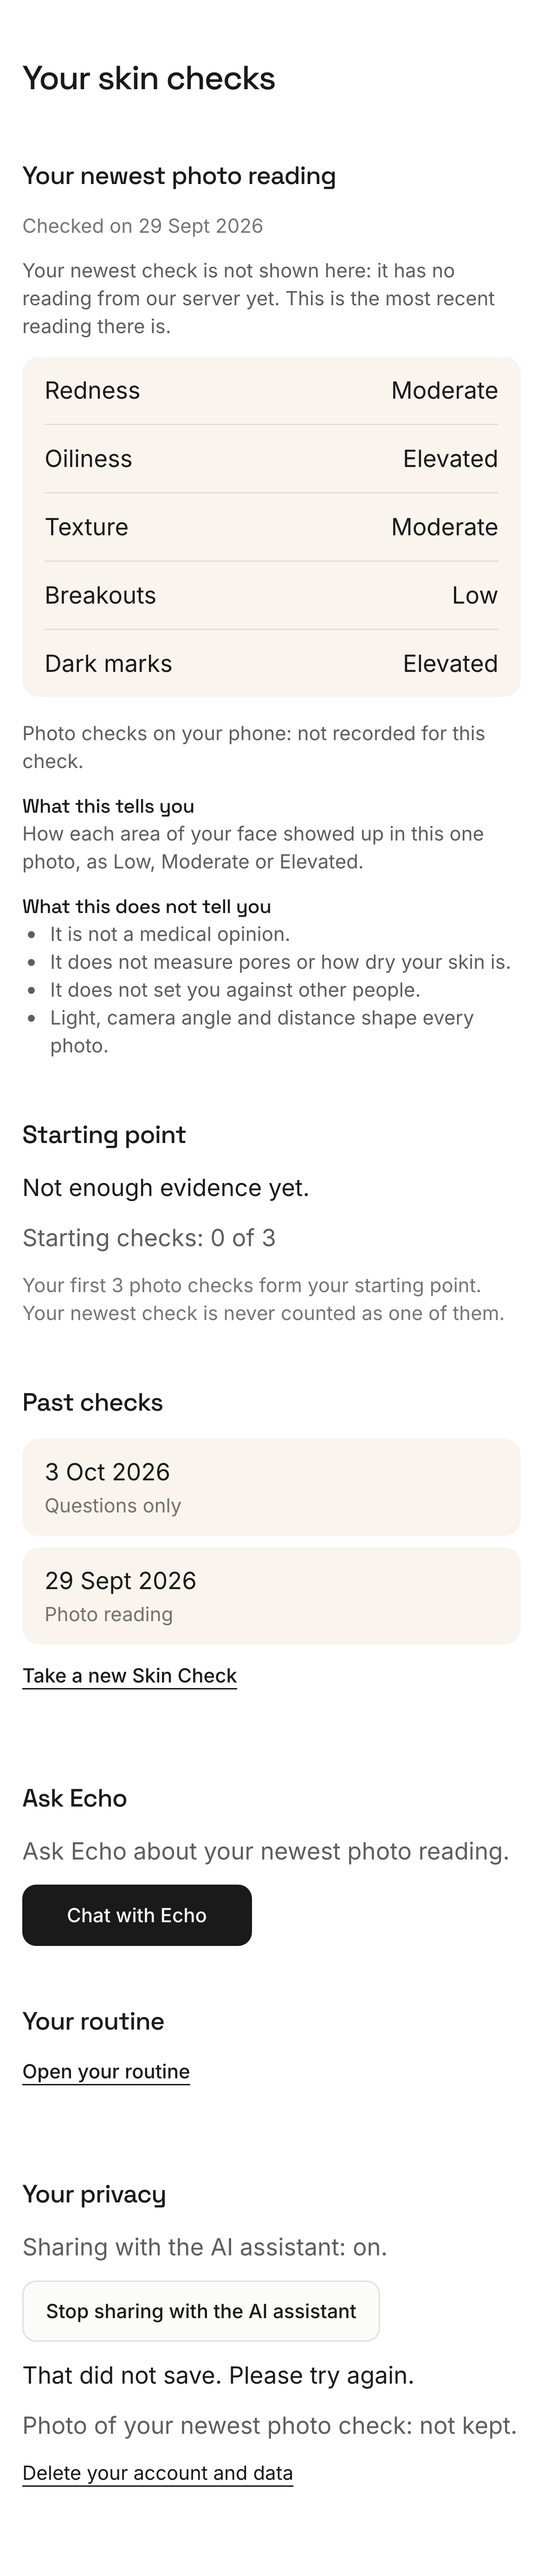
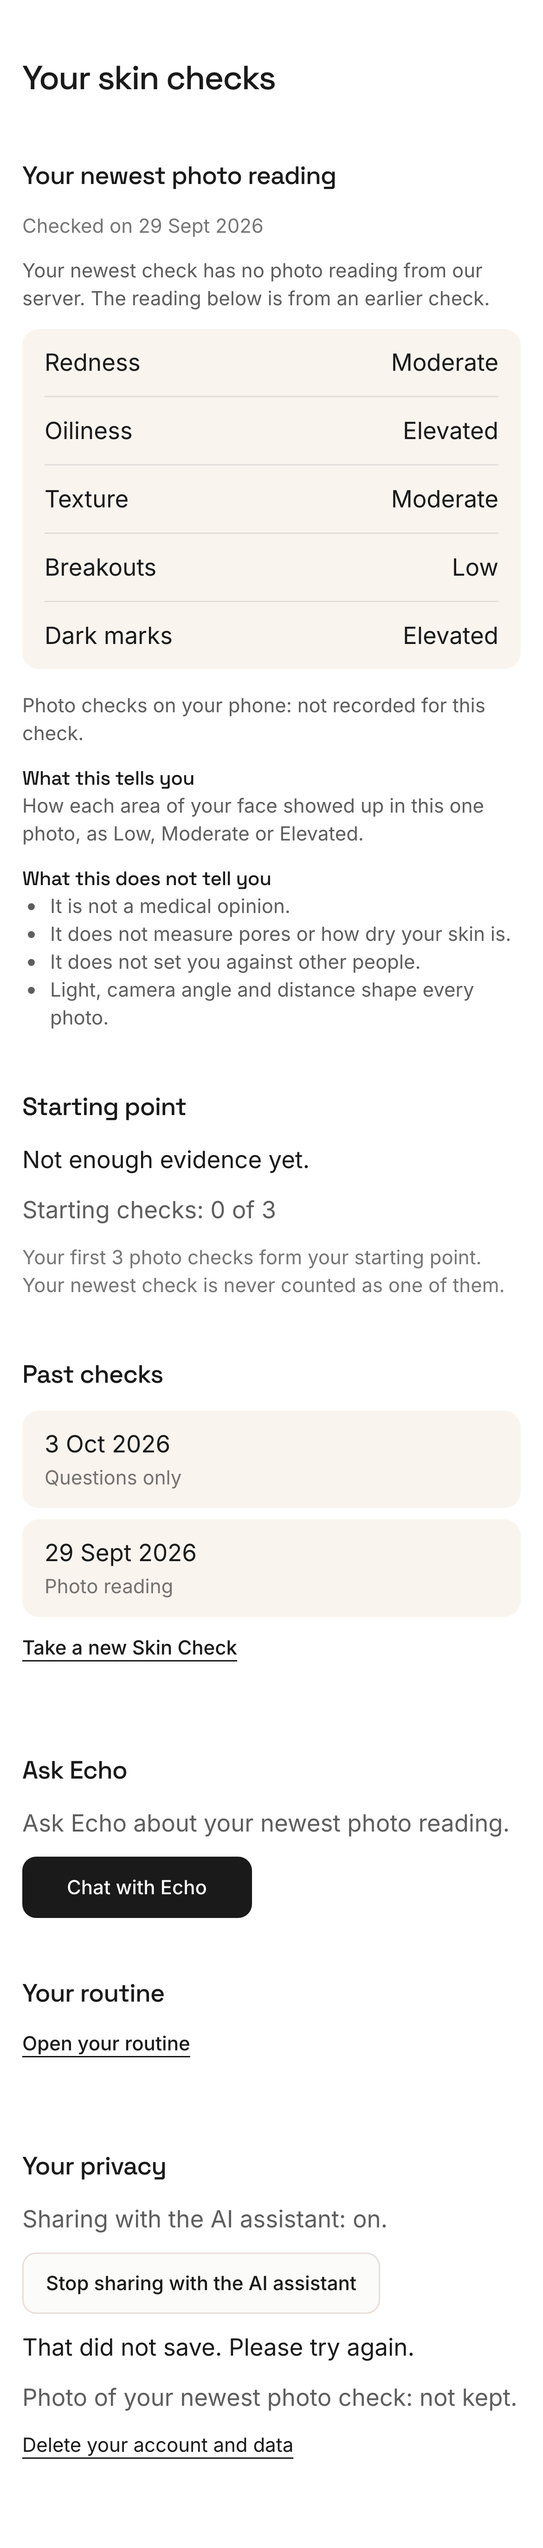
fix(dashboard): confirmation-pass follow-ups
- 'Newer check' line no longer says the reading is on its way: true for
  questions-only and failed checks too.
- pickBaseline gets one state per check, so an early retake can never keep
  the count below 3 (5-check unit test).
- Unreadable reading: no app-only note and no 'what this tells you' next
  to readings that are not on screen (browser assertion).
- Report names every seed user with sharing on.

test:local exit 0 (unit 1232/47, stack 47/47); build exit 0; browser 25/25
on a fresh stack (K-1 expected failure).

diff --git a/components/dashboard/state.ts b/components/dashboard/state.ts
@@ -186,16 +186,13 @@ export function deriveDashboard(uid: string, checks: readonly Doc[], analyses: r
       ? { kind: "reading", view: legacyView(newestLegacy, legacyResultOf(newestLegacy)!) }
       : { kind: "none" };
 
-  // Same picker and rule as the engine, over every valid record as the chat
-  // path passes them; the newest is never a candidate. The page counts CHECKS,
-  // not records: a retake or recovery record never adds a starting check, and
-  // an earlier record of the newest check is not one (design gap G-1).
-  const { latest, candidates, engineBoundary } = pickBaseline(measured.map((m) => m.state));
-  const scanOf = new Map(measured.map((m) => [m.state, m.scanId] as const));
-  const startingScans = new Set(candidates.map((c) => scanOf.get(c)!));
-  if (latest) startingScans.delete(scanOf.get(latest)!);
+  // Same picker and rule as the engine, over ONE state per check (the record
+  // picked above), so the page counts checks: a retake or recovery record never
+  // adds or takes a starting-check place. The newest check is never a
+  // candidate. The engine is passed every record (design gap G-1).
+  const { candidates, engineBoundary } = pickBaseline(Array.from(byScan.values()).map((m) => m.state));
   const needed = BASELINE_RULE.scans;
-  const count = Math.min(startingScans.size, needed);
+  const count = Math.min(candidates.length, needed);
   const trend: Trend = {
     kind: measured.length === 0 ? "empty" : count < needed ? "building" : "set",
     count,

diff --git a/tests/dashboard-state.test.ts b/tests/dashboard-state.test.ts
@@ -98,6 +98,12 @@ describe("dashboard view model", () => {
     expect(deriveDashboard(UID, [check("a", 1), check("c", 3)], [analysis("a", 1), retake, analysis("c", 3)]).trend.count).toBe(1);
   });
 
+  it("a retake on an early check never keeps the count below the number needed", () => {
+    const ids = ["a", "b", "c", "d", "e"];
+    const records = [...ids.map((s, i) => analysis(s, i + 1)), analysis("a", 1, {}, {}, "b")];
+    expect(deriveDashboard(UID, ids.map((s, i) => check(s, i + 1)), records).trend).toMatchObject({ kind: "set", count: 3 });
+  });
+
   it("an invalid primary record gives the scan no reading, as Echo then has none (no fallback to a recovery record)", () => {
     const primary = analysis("s", 1);
     primary.data.schemaVersion = 2;

diff --git a/components/dashboard/copy.ts b/components/dashboard/copy.ts
@@ -17,7 +17,7 @@ export const DASHBOARD_COPY = {
     title: "Your newest photo reading",
     none: "None of your checks has a photo reading yet.",
     checkedOn: (date: string) => `Checked on ${date}`,
-    newerNotShown: "Your newest check is not shown here: it has no reading from our server yet. This is the most recent reading there is.",
+    newerNotShown: "Your newest check has no photo reading from our server. The reading below is from an earlier check.",
     unreadable: "The readings of this check could not be shown.",
     hardToRead: (areas: string) => `Hard to read in this photo: ${areas}. Those readings are uncertain.`,
     knownTitle: "What this tells you",

diff --git a/tests/browser/dashboard.spec.ts b/tests/browser/dashboard.spec.ts
@@ -137,6 +137,9 @@ test("privacy: sharing on, with the stop button", async ({ page }) => {
 test("unreadable: stored scores that do not parse", async ({ page }) => {
   await dashboardAs(page, U.unreadable!.phoneNumber);
   await expect(page.getByText(C.current.unreadable)).toBeVisible();
+  // Nothing that speaks of readings that are not on screen.
+  await expect(page.getByText(C.legacyNote)).toHaveCount(0);
+  await expect(page.getByRole("heading", { name: C.current.knownTitle })).toHaveCount(0);
   await shot(page, "unreadable");
 });
 

diff --git a/components/dashboard/CheckReadings.tsx b/components/dashboard/CheckReadings.tsx
@@ -23,7 +23,7 @@ export function CheckReadings({ view }: { view: CheckView }) {
       )}
       {view.hardToRead.length > 0 && <p className="text-sm text-text/70">{C.current.hardToRead(view.hardToRead.join(", "))}</p>}
       {view.photoCheck && <p className="text-sm text-text/70">{C.photoCheck[view.photoCheck]}</p>}
-      {view.source === "legacy" && <p className="text-sm text-text/70">{C.legacyNote}</p>}
+      {view.source === "legacy" && view.bands && <p className="text-sm text-text/70">{C.legacyNote}</p>}
     </div>
   );
 }

diff --git a/components/dashboard/DashboardPage.tsx b/components/dashboard/DashboardPage.tsx
@@ -153,7 +153,8 @@ function CurrentSection({ dashboard }: { dashboard: Dashboard }) {
           <p className="text-sm text-text/60">{C.current.checkedOn(formatDate(current.view.date))}</p>
           {dashboard.newerCheckNotShown && <p className="text-sm text-text/70">{C.current.newerNotShown}</p>}
           <CheckReadings view={current.view} />
-          <KnownAndNotKnown />
+          {/* Only next to readings that are on screen. */}
+          {current.view.bands && <KnownAndNotKnown />}
         </>
       )}
     </section>

diff --git a/docs/lanes/dashboard-report.md b/docs/lanes/dashboard-report.md
@@ -29,15 +29,15 @@ Skipped, each needing an owner decision (§4):
 
 ## 2. Test results
 
-At aebf1eb:
-- `npm run test:local`: exit 0. Unit tests 1231 passed, 47 skipped (86 files); stack 10 files, 47/47. The baseline before the lane was 1199 passed, 47 skipped; stack 47/47.
+At the final commit (§7, last row):
+- `npm run test:local`: exit 0. Unit tests 1232 passed, 47 skipped (86 files); stack 10 files, 47/47. The baseline before the lane was 1199 passed, 47 skipped; stack 47/47.
 - `npx tsc --noEmit`: 0 errors. `npm run lint`: clean. `next build`: exit 0 (`/dashboard` 2.66 kB).
-- The lane's unit tests are `tests/dashboard-state.test.ts` (every state in design §3) and `tests/dashboard-copy.test.ts` (D-12 wording, positive controls, no score, band colour or arrow, no import of the rules, context, gemini or engine code). Together: 32/32.
+- The lane's unit tests are `tests/dashboard-state.test.ts` (every state in design §3) and `tests/dashboard-copy.test.ts` (D-12 wording, positive controls, no score, band colour or arrow, no import of the rules, context, gemini or engine code). Together: 33/33.
 - **Browser tests:** `npx playwright test` against a fresh `npm run dev:local`, Chromium, 390×844, mobile user agent, one worker.
   - Result: **25/25 passed.** One of these is K-1, a known defect pinned with `test.fail()`, so it passes while it still fails.
   - Run command: `GEMINI_DEV_API_KEY=placeholder-not-a-key npm run dev:local`, then `npx playwright test`.
   - Why the placeholder key: the chat route checks for a Gemini key before it checks consent. With no key, Echo answers "isn't set up" and never reaches its consent prompt.
-  - It cannot reach Google in these tests. No test grants consent: the Echo user was never asked, and the withdraw user is checked as "off" before the message is sent. The route refuses without consent before any Gemini code runs.
+  - It cannot reach Google in these tests. No test grants consent and the route refuses without consent before any Gemini code runs. The seed users with sharing on are `withdraw` (checked as "off" before its Echo message is sent) and `newer` (never sends an Echo message; its consent requests are answered by `page.route`). The Echo user was never asked.
   - The value lives only in the shell, not in any file.
   - The data-changing tests (scan, withdraw, delete, routine) need a fresh stack for each run.
 - **Screenshots:** `docs/lanes/dashboard-*.png`.
@@ -84,7 +84,7 @@ At aebf1eb:
 - Dates in `en-IN`.
 - Browser tests written.
 
-**Fresh review of code and screenshots: FAIL. No screen puts two checks' readings side by side, and none shows a score, colour, arrow or chart.** Its findings and the response:
+**Fresh review of code and screenshots: FAIL. No screen puts two checks' readings side by side, and none shows a score, colour, arrow or chart.** Its findings and the response (fixed in aebf1eb; a confirmation pass then found four follow-ups, fixed in the next commit and listed after this list):
 1. The report was interim. This report is final.
 2. The reviewer could not check frozen files without a shell. Checked with `git diff --name-only`: none touched.
 3. **An older reading could sit under "Your newest photo reading" right after a new check.** Now a plain line is shown whenever a newer check has no server reading. Unit and browser tested.
@@ -97,6 +97,12 @@ At aebf1eb:
 10. Some states had no screenshot. Added for unreadable, newer check not shown, and privacy saving, failed and out of date. Two privacy states have none; the reason is in the design §6.
 11. No test pinned the retake count. Added.
 12. /routine is wider than a 390 px phone (the "Swap for" selects spill out). Not lane code: row R-6.
+
+**Confirmation pass: FAIL, four follow-ups, all fixed:**
+1. The "newer check" line said "no reading … yet", which is false for a questions-only or failed check. It now reads "Your newest check has no photo reading from our server. The reading below is from an earlier check."
+2. Counting records and then removing duplicates by check could leave the count at "2 of 3" for good after an early retake. `pickBaseline` now gets one state per check, with a 5-check unit test.
+3. The unreadable state showed the app-only note and "what this tells you" next to no readings. Both now show only when readings do, with a browser assertion.
+4. This report's Gemini statement missed the `newer` seed user. Now named.
 
 ## 4. New owner decisions
 
@@ -123,7 +129,7 @@ At aebf1eb:
 
 | Row | Area | What | Evidence or next action |
 |---|---|---|---|
-| G01 | Dashboard | Move to DONE / CHECKED LOCAL, with the evidence in §2 | aebf1eb; test:local exit 0; browser 25/25 |
+| G01 | Dashboard | Move to DONE / CHECKED LOCAL, with the evidence in §2 | final commit (§7); test:local exit 0; browser 25/25 |
 | H14 | Privacy | Move to DONE / CHECKED LOCAL: withdraw control on /dashboard and /account | ConsentSection; withdraw browser test; 409 state |
 | E06 | Routine | The browser click-through is done: add, used, skipped, other product, reload | flows.spec.ts routine test |
 | R-1 (K-1) | Echo / flow | Echo's back link after a dashboard hand-off reopens an old results screen | §5.2; pinned by `test.fail()` |
@@ -146,4 +152,5 @@ At aebf1eb:
 | 787a9c4 | fix: show a reading that landed before the questionnaire was saved |
 | 1dac63c | test: flow browser tests 2–10, warm-up, returning-user seed |
 | aebf1eb | fix: review fixes (newer check named, checks not records, Echo record order, app-only copy); tests and screenshots |
-| (this commit) | docs: final report |
+| c555e2e | docs: final report |
+| (this commit) | fix: confirmation-pass follow-ups (newer-check copy, one state per check for the count, unreadable state); tests, screenshots, design and report updated |

diff --git a/docs/lanes/dashboard-design.md b/docs/lanes/dashboard-design.md
@@ -72,7 +72,7 @@ the error-state browser test). Dates are formatted in `en-IN`.
 | One record per check | `scanAnalyses.scanId` | Picked exactly as Echo picks it (lib/echo-trusted-context.ts): over ALL records for the scan, the primary record (no `persistAttempt`) first, then the newest `createdAt`; validity is checked on the record picked. If it is not valid, the scan has no reading here (Echo then has nothing to load either); no fallback to another record. So the bands shown and the scan Echo talks about are the same record |
 | App-only reading ("legacy record") | `skinChecks.result` with no measured record for that scanId | Old client-written checks, and current checks whose server record is missing (failed persist, H13 restored draft). Labelled, shown as saved, never a starting check (D-23) |
 | Photo-check result | `scanAnalyses.captureQuality.verdict` | Client-asserted (D-26): every line says "Photo checks on your phone", and it is used for nothing else |
-| Starting-check count | distinct checks (scanIds) among `pickBaseline(states).candidates`, minus the newest record's check, capped at `BASELINE_RULE.scans` (lib/longitudinal/baseline.ts, settings.ts) | `states` = every measured record, as the chat path passes them to the engine. The page counts checks, not records, so a retake or recovery record never moves the count (the copy says "photo checks"). The engine itself may not be imported outside the chat path (tests/longitudinal-guard). See gap G-1 |
+| Starting-check count | `pickBaseline(states).candidates.length`, capped at `BASELINE_RULE.scans` (lib/longitudinal/baseline.ts, settings.ts) | `states` = one state per check: the record picked for it above. The page counts checks, not records, so a retake or recovery record never takes or adds a starting-check place (the copy says "photo checks"); the engine is passed every record. The engine itself may not be imported outside the chat path (tests/longitudinal-guard). See gap G-1 |
 | AI-share status | `users/{uid}/consentLedger`, purpose `ai_share`, read on its own by `ConsentSection` | Newest entry at `AI_SHARE_CONSENT_VERSION` wins (the server's `latestGrant` rule); a pending `recordedAt` counts as newest. None → "not asked yet". A failed ledger read shows the privacy error only; the rest of the page still loads |
 | Withdraw | `POST /api/account/consent` `{ purpose: "ai_share", granted: false, version }` | Existing route (H03c). 2xx → re-read the ledger; 409 `VERSION_STALE` → "reload" message; anything else → "try again" |
 | Echo hand-off | `setSession` of the existing session provider: `scanId`, `answers`, `result` (the chosen record), `composite` (`summarizeConcerns(scores, bandScores(scores).bands)`, as the results screen builds it), `captureMethod`, and an empty Blob for the required `photo` (marked `ponytail:`) | Echo reads only `scanId` and `region_scores`; the chat server loads the facts from `scanId` |
@@ -123,9 +123,9 @@ Section 1, current state ("Your newest photo reading"):
 | State | When | Shows |
 |---|---|---|
 | reading | a measured record exists | "Checked on {date}", the bands, hard-to-read areas, the photo-check line, known / not known |
-| newer check not shown | a check is newer than the reading shown (server reading not in yet, failed save, app-only, or questions only) | adds "Your newest check is not shown here: it has no reading from our server yet. This is the most recent reading there is." so an older reading is never taken for the check just made |
+| newer check not shown | a check is newer than the reading shown (server reading not in yet, failed save, app-only, or questions only) | adds "Your newest check has no photo reading from our server. The reading below is from an earlier check." so an older reading is never taken for the check just made |
 | app-only reading | no measured record, a check has an app-only result | the same, without the photo-check line, plus "This reading was saved by the app on your phone. Our server has no readable copy of it, so it is shown as it was saved and is not used as a starting check." |
-| unreadable | the stored scores do not parse | "The readings of this check could not be shown." |
+| unreadable | the stored scores do not parse | "The readings of this check could not be shown." without the app-only note or "what this tells you" (both speak of readings that are not on screen) |
 | no reading | checks exist, none with a reading | "None of your checks has a photo reading yet." + "Take a new Skin Check" |
 | orphan record | a measured record with no skinChecks doc | shown here; left out of Past checks (history lists checks) |
 
